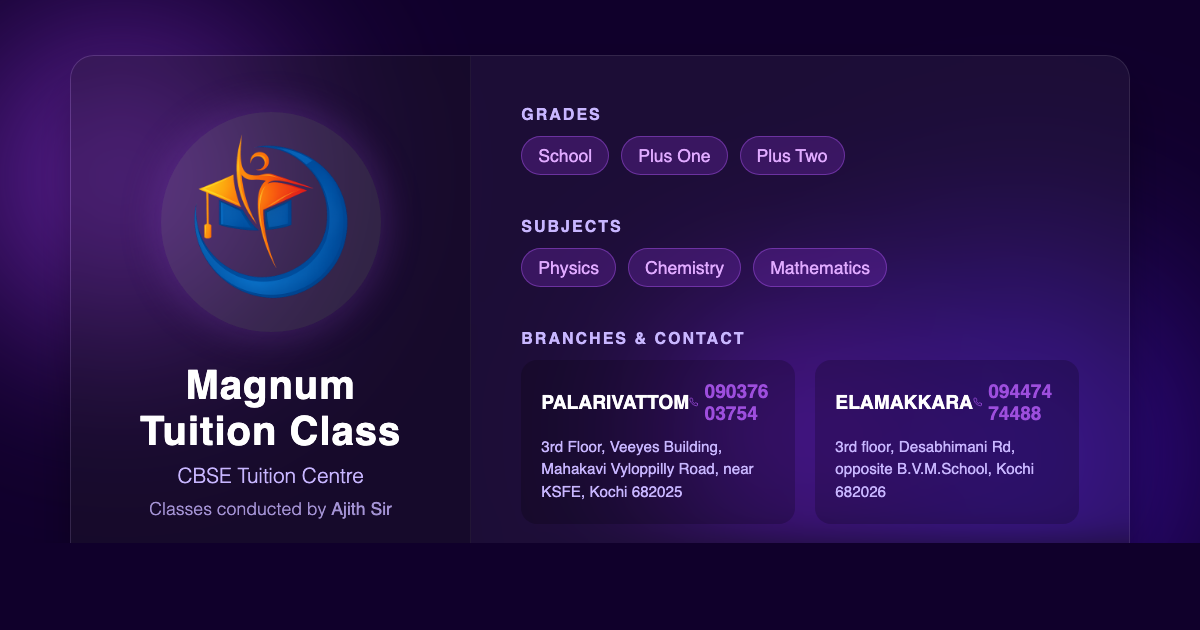
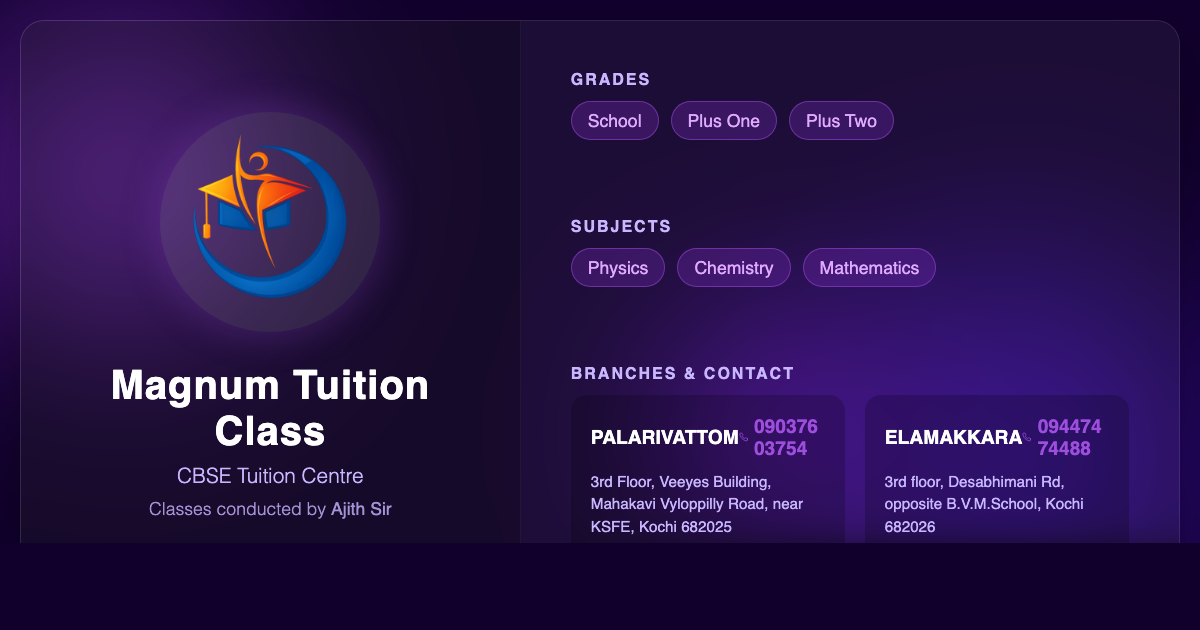
Expand social share card to fill more space

diff --git a/social-card-template.html b/social-card-template.html
@@ -1,0 +1,232 @@
+<!DOCTYPE html>
+<html lang="en">
+<head>
+  <meta charset="UTF-8">
+  <title>Social Card</title>
+  <style>
+    @import url('https://fonts.googleapis.com/css2?family=Outfit:wght@300;400;600;700&display=swap');
+
+    * { box-sizing: border-box; margin: 0; padding: 0; }
+
+    body {
+      width: 1200px;
+      height: 630px;
+      font-family: 'Outfit', sans-serif;
+      background: #10002b;
+      display: flex;
+      align-items: center;
+      justify-content: center;
+      overflow: hidden;
+      position: relative;
+      color: #ffffff;
+    }
+
+    /* Animated Background Bubbles - but static for screenshot */
+    .bg-bubble {
+      position: absolute;
+      border-radius: 50%;
+      filter: blur(80px);
+      z-index: -1;
+    }
+    .bubble-1 { top: -10%; left: -10%; width: 40vw; height: 40vw; background: radial-gradient(circle, #7b2cbf, transparent 70%); }
+    .bubble-2 { bottom: -20%; right: -10%; width: 50vw; height: 50vw; background: radial-gradient(circle, #3a0ca3, transparent 70%); }
+    .bubble-3 { top: 40%; left: 50%; width: 30vw; height: 30vw; background: radial-gradient(circle, #560bad, transparent 70%); }
+
+    .card {
+      width: 1160px;
+      height: 590px;
+      background: rgba(255, 255, 255, 0.05);
+      backdrop-filter: blur(16px);
+      border: 1px solid rgba(255, 255, 255, 0.1);
+      border-radius: 24px;
+      display: flex;
+      align-items: stretch;
+      box-shadow: 0 25px 50px -12px rgba(0, 0, 0, 0.5);
+      overflow: hidden;
+    }
+
+    .left-panel {
+      flex: 1;
+      display: flex;
+      flex-direction: column;
+      align-items: center;
+      justify-content: center;
+      background: rgba(0, 0, 0, 0.2);
+      padding: 50px;
+      border-right: 1px solid rgba(255, 255, 255, 0.05);
+    }
+
+    .logo-container {
+      width: 220px;
+      height: 220px;
+      border-radius: 50%;
+      background: rgba(255, 255, 255, 0.1);
+      padding: 10px;
+      box-shadow: 0 0 40px rgba(157, 78, 221, 0.3);
+      overflow: hidden;
+      margin-bottom: 30px;
+    }
+
+    .logo-container img {
+      width: 100%;
+      height: 100%;
+      object-fit: cover;
+      border-radius: 50%;
+    }
+
+    .left-panel h1 {
+      font-size: 2.5rem;
+      font-weight: 700;
+      text-align: center;
+      letter-spacing: 1px;
+      margin-bottom: 10px;
+    }
+
+    .left-panel p {
+      font-size: 1.3rem;
+      color: #c8b6ff;
+      font-weight: 300;
+      text-align: center;
+    }
+
+    .right-panel {
+      flex: 1.4;
+      padding: 50px;
+      display: flex;
+      flex-direction: column;
+      justify-content: space-between;
+    }
+
+    .info-group {
+      margin-bottom: 25px;
+    }
+
+    .info-title {
+      font-size: 1rem;
+      color: #c8b6ff;
+      text-transform: uppercase;
+      letter-spacing: 2px;
+      font-weight: 600;
+      margin-bottom: 12px;
+    }
+
+    .chip-container {
+      display: flex;
+      flex-wrap: wrap;
+      gap: 12px;
+    }
+
+    .chip {
+      background: rgba(123, 44, 191, 0.3);
+      border: 1px solid rgba(157, 78, 221, 0.5);
+      padding: 8px 16px;
+      border-radius: 20px;
+      font-size: 1.1rem;
+      color: #e0aaff;
+    }
+
+    .branches-grid {
+      display: grid;
+      grid-template-columns: 1fr 1fr;
+      gap: 20px;
+    }
+
+    .branch-card {
+      background: rgba(0, 0, 0, 0.2);
+      border-radius: 16px;
+      padding: 20px;
+    }
+
+    .branch-header {
+      display: flex;
+      justify-content: space-between;
+      align-items: center;
+      margin-bottom: 12px;
+    }
+
+    .branch-header h4 {
+      font-size: 1.2rem;
+      font-weight: 600;
+      text-transform: uppercase;
+    }
+
+    .phone {
+      font-size: 1.2rem;
+      color: #9d4edd;
+      font-weight: 600;
+      display: flex;
+      align-items: center;
+      gap: 6px;
+    }
+
+    .address {
+      font-size: 0.95rem;
+      color: #c8b6ff;
+      line-height: 1.5;
+    }
+  </style>
+</head>
+<body>
+  <div class="bg-bubble bubble-1"></div>
+  <div class="bg-bubble bubble-2"></div>
+  <div class="bg-bubble bubble-3"></div>
+
+  <div class="card">
+    <div class="left-panel">
+      <div class="logo-container">
+        <!-- Assume this file is served alongside logo.png or opened with absolute paths -->
+        <img src="file:///Users/anas/Documents/Coding/Websites/magnum/logo.png" alt="Logo">
+      </div>
+      <h1>Magnum Tuition Class</h1>
+      <p>CBSE Tuition Centre</p>
+      <p style="margin-top: 10px; font-size: 1.1rem; opacity: 0.8;">Classes conducted by <strong>Ajith Sir</strong></p>
+    </div>
+    
+    <div class="right-panel">
+      <div class="info-group">
+        <h3 class="info-title">Grades</h3>
+        <div class="chip-container">
+          <div class="chip">School</div>
+          <div class="chip">Plus One</div>
+          <div class="chip">Plus Two</div>
+        </div>
+      </div>
+
+      <div class="info-group">
+        <h3 class="info-title">Subjects</h3>
+        <div class="chip-container">
+          <div class="chip">Physics</div>
+          <div class="chip">Chemistry</div>
+          <div class="chip">Mathematics</div>
+        </div>
+      </div>
+
+      <div class="info-group" style="margin-bottom: 0;">
+        <h3 class="info-title">Branches & Contact</h3>
+        <div class="branches-grid">
+          <div class="branch-card">
+            <div class="branch-header">
+              <h4>Palarivattom</h4>
+              <div class="phone">
+                <svg xmlns="http://www.w3.org/2000/svg" width="16" height="16" viewBox="0 0 24 24" fill="none" stroke="currentColor" stroke-width="2" stroke-linecap="round" stroke-linejoin="round"><path d="M22 16.92v3a2 2 0 0 1-2.18 2 19.79 19.79 0 0 1-8.63-3.07 19.5 19.5 0 0 1-6-6 19.79 19.79 0 0 1-3.07-8.67A2 2 0 0 1 4.11 2h3a2 2 0 0 1 2 1.72 12.84 12.84 0 0 0 .7 2.81 2 2 0 0 1-.45 2.11L8.09 9.91a16 16 0 0 0 6 6l1.27-1.27a2 2 0 0 1 2.11-.45 12.84 12.84 0 0 0 2.81.7A2 2 0 0 1 22 16.92z"></path></svg>
+                090376 03754
+              </div>
+            </div>
+            <div class="address">3rd Floor, Veeyes Building, Mahakavi Vyloppilly Road, near KSFE, Kochi 682025</div>
+          </div>
+          <div class="branch-card">
+            <div class="branch-header">
+              <h4>Elamakkara</h4>
+              <div class="phone">
+                <svg xmlns="http://www.w3.org/2000/svg" width="16" height="16" viewBox="0 0 24 24" fill="none" stroke="currentColor" stroke-width="2" stroke-linecap="round" stroke-linejoin="round"><path d="M22 16.92v3a2 2 0 0 1-2.18 2 19.79 19.79 0 0 1-8.63-3.07 19.5 19.5 0 0 1-6-6 19.79 19.79 0 0 1-3.07-8.67A2 2 0 0 1 4.11 2h3a2 2 0 0 1 2 1.72 12.84 12.84 0 0 0 .7 2.81 2 2 0 0 1-.45 2.11L8.09 9.91a16 16 0 0 0 6 6l1.27-1.27a2 2 0 0 1 2.11-.45 12.84 12.84 0 0 0 2.81.7A2 2 0 0 1 22 16.92z"></path></svg>
+                094474 74488
+              </div>
+            </div>
+            <div class="address">3rd floor, Desabhimani Rd, opposite B.V.M.School, Kochi 682026</div>
+          </div>
+        </div>
+      </div>
+    </div>
+  </div>
+</body>
+</html>
